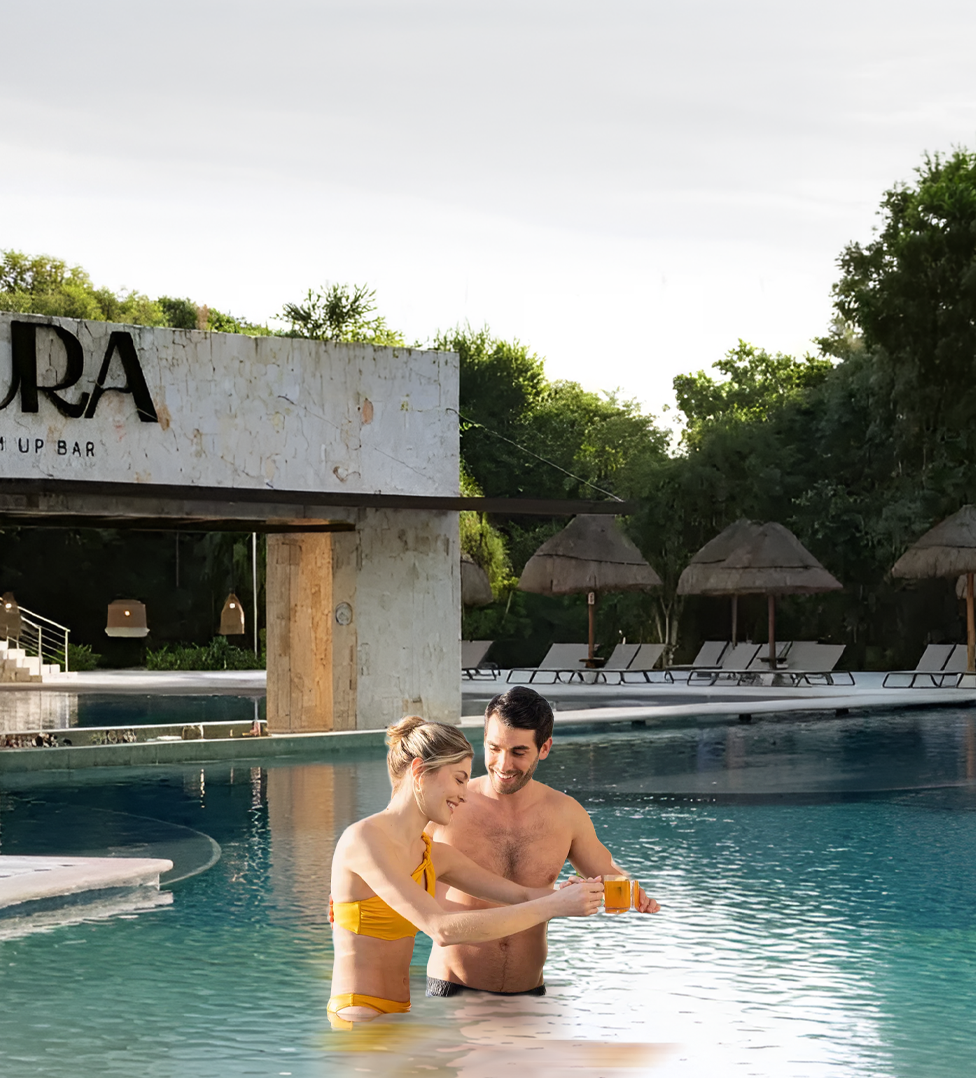
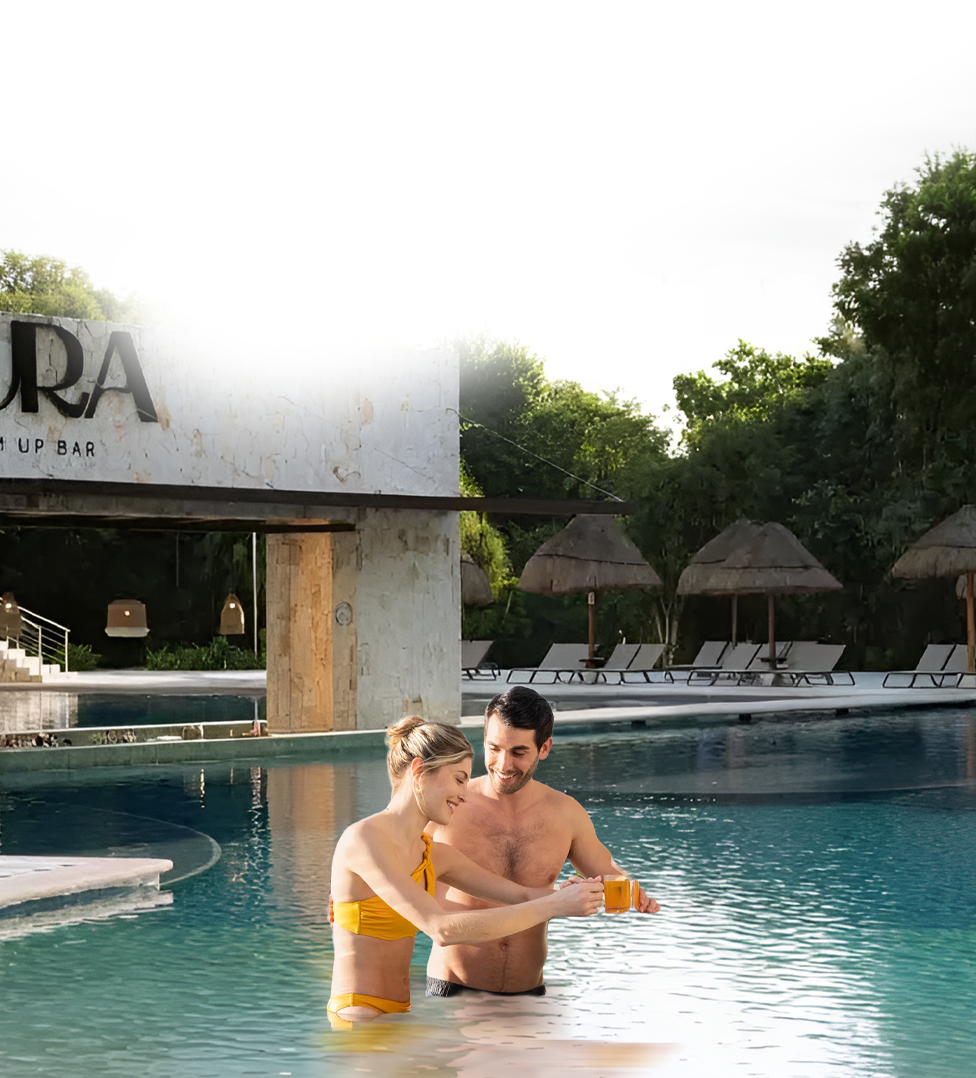
Mobile hello bar polish, hero spacing, lightbox swipe
- HelloBar: tighter mobile type/spacing, text-wrap balance, Per+Couple nbsp
- Hero: extend mobile/tablet bg under header via negative margin (keep column bg-cover)
- Lightbox: pointer swipe/drag on gallery images; draggable=false on imgs
- Testimonials: ReviewsLightbox uses pointer events for desktop drag
- Hero assets: updated HERO-BCK-MOBILE and HERO-BCK-TAB images

Made-with: Cursor

diff --git a/src/components/Lightbox.tsx b/src/components/Lightbox.tsx
@@ -1,6 +1,8 @@
-import { useEffect, useCallback, type ReactNode } from 'react';
+import { useEffect, useCallback, useRef, type ReactNode } from 'react';
 import { createPortal } from 'react-dom';
 import { X, ChevronLeft, ChevronRight } from 'lucide-react';
+
+const SWIPE_THRESHOLD_PX = 56;
 
 export type LightboxImageItem = {
   src: string;
@@ -48,6 +50,44 @@ export function Lightbox({
       onNavigate(currentIndex - 1);
     }
   }, [canGoBack, onNavigate, currentIndex]);
+
+  /** Horizontal drag / swipe (pointer = mouse + touch + pen). */
+  const gallerySwipeStartX = useRef<number | null>(null);
+
+  const onGalleryPointerDown = useCallback((e: React.PointerEvent<HTMLDivElement>) => {
+    if (e.pointerType === 'mouse' && e.button !== 0) return;
+    const t = e.target as HTMLElement;
+    if (t.closest('button, a, [role="button"]')) return;
+    gallerySwipeStartX.current = e.clientX;
+    e.currentTarget.setPointerCapture(e.pointerId);
+  }, []);
+
+  const onGalleryPointerUp = useCallback(
+    (e: React.PointerEvent<HTMLDivElement>) => {
+      if (gallerySwipeStartX.current === null) return;
+      const startX = gallerySwipeStartX.current;
+      gallerySwipeStartX.current = null;
+      try {
+        e.currentTarget.releasePointerCapture(e.pointerId);
+      } catch {
+        /* not captured */
+      }
+      const dx = e.clientX - startX;
+      if (Math.abs(dx) < SWIPE_THRESHOLD_PX) return;
+      if (dx < 0 && canGoForward) goToNext();
+      else if (dx > 0 && canGoBack) goToPrev();
+    },
+    [canGoBack, canGoForward, goToNext, goToPrev]
+  );
+
+  const onGalleryPointerCancel = useCallback((e: React.PointerEvent<HTMLDivElement>) => {
+    gallerySwipeStartX.current = null;
+    try {
+      e.currentTarget.releasePointerCapture(e.pointerId);
+    } catch {
+      /* */
+    }
+  }, []);
 
   const handleKeyDown = useCallback(
     (e: KeyboardEvent) => {
@@ -166,11 +206,17 @@ export function Lightbox({
           >
             {detailLayout ? (
               <>
-                <div className="flex min-h-0 shrink-0 justify-center md:w-[52%] md:max-w-none">
+                <div
+                  className="flex min-h-0 shrink-0 cursor-grab touch-pan-y justify-center active:cursor-grabbing md:w-[52%] md:max-w-none"
+                  onPointerDown={onGalleryPointerDown}
+                  onPointerUp={onGalleryPointerUp}
+                  onPointerCancel={onGalleryPointerCancel}
+                >
                   <img
                     src={currentImage?.src}
                     alt={currentImage?.label || `Image ${currentIndex + 1}`}
-                    className="max-h-[42vh] w-full max-w-full rounded-lg object-contain shadow-2xl md:max-h-[min(78vh,720px)]"
+                    draggable={false}
+                    className="max-h-[42vh] w-full max-w-full select-none rounded-lg object-contain shadow-2xl md:max-h-[min(78vh,720px)]"
                   />
                 </div>
                 <div className="flex min-h-0 max-h-[38vh] flex-col overflow-y-auto scroll-touch-y rounded-xl bg-black/40 px-4 py-4 text-left backdrop-blur-md md:max-h-none md:w-[48%] md:px-6 md:py-6">
@@ -185,12 +231,18 @@ export function Lightbox({
                 </div>
               </>
             ) : (
-              <div className="relative">
+              <div
+                className="relative cursor-grab touch-pan-y active:cursor-grabbing"
+                onPointerDown={onGalleryPointerDown}
+                onPointerUp={onGalleryPointerUp}
+                onPointerCancel={onGalleryPointerCancel}
+              >
                 <div className="relative flex items-center justify-center">
                   <img
                     src={currentImage?.src}
                     alt={currentImage?.label || `Image ${currentIndex + 1}`}
-                    className="max-h-[80vh] max-w-full rounded-lg object-contain shadow-2xl"
+                    draggable={false}
+                    className="max-h-[80vh] max-w-full select-none rounded-lg object-contain shadow-2xl"
                   />
                 </div>
 

diff --git a/src/components/Testimonials.tsx b/src/components/Testimonials.tsx
@@ -42,6 +42,8 @@ const reviews: Review[] = [
 
 const galleryImages = [...GUEST_REVIEW_GALLERY_IMAGES];
 
+const REVIEW_SWIPE_THRESHOLD_PX = 56;
+
 function ReviewsLightbox({
   reviews: reviewList,
   isOpen,
@@ -54,7 +56,7 @@ function ReviewsLightbox({
   onClose: () => void;
 }) {
   const [index, setIndex] = useState(initialIndex);
-  const touchStartX = useRef<number | null>(null);
+  const swipeStartX = useRef<number | null>(null);
 
   useEffect(() => {
     if (isOpen) setIndex(initialIndex);
@@ -67,6 +69,43 @@ function ReviewsLightbox({
   const goNext = useCallback(() => {
     setIndex((i) => Math.min(reviewList.length - 1, i + 1));
   }, [reviewList.length]);
+
+  const canBack = index > 0;
+  const canForward = index < reviewList.length - 1;
+
+  const onReviewPointerDown = useCallback((e: React.PointerEvent<HTMLDivElement>) => {
+    if (e.pointerType === 'mouse' && e.button !== 0) return;
+    if ((e.target as HTMLElement).closest('button, a, [role="button"]')) return;
+    swipeStartX.current = e.clientX;
+    e.currentTarget.setPointerCapture(e.pointerId);
+  }, []);
+
+  const onReviewPointerUp = useCallback(
+    (e: React.PointerEvent<HTMLDivElement>) => {
+      if (swipeStartX.current === null) return;
+      const startX = swipeStartX.current;
+      swipeStartX.current = null;
+      try {
+        e.currentTarget.releasePointerCapture(e.pointerId);
+      } catch {
+        /* */
+      }
+      const dx = e.clientX - startX;
+      if (Math.abs(dx) < REVIEW_SWIPE_THRESHOLD_PX) return;
+      if (dx < 0 && canForward) goNext();
+      else if (dx > 0 && canBack) goPrev();
+    },
+    [canBack, canForward, goNext, goPrev]
+  );
+
+  const onReviewPointerCancel = useCallback((e: React.PointerEvent<HTMLDivElement>) => {
+    swipeStartX.current = null;
+    try {
+      e.currentTarget.releasePointerCapture(e.pointerId);
+    } catch {
+      /* */
+    }
+  }, []);
 
   useEffect(() => {
     if (!isOpen) return;
@@ -91,22 +130,8 @@ function ReviewsLightbox({
   if (!isOpen) return null;
 
   const review = reviewList[index];
-  const canBack = index > 0;
-  const canForward = index < reviewList.length - 1;
 
   const detailTopPad = 'max(7rem, calc(env(safe-area-inset-top, 0px) + 6rem))';
-
-  const onTouchStart = (e: React.TouchEvent) => {
-    touchStartX.current = e.touches[0].clientX;
-  };
-
-  const onTouchEnd = (e: React.TouchEvent) => {
-    if (touchStartX.current === null) return;
-    const dx = e.changedTouches[0].clientX - touchStartX.current;
-    touchStartX.current = null;
-    if (dx < -56 && canForward) goNext();
-    else if (dx > 56 && canBack) goPrev();
-  };
 
   return createPortal(
     <div
@@ -154,10 +179,11 @@ function ReviewsLightbox({
       ) : null}
 
       <div
-        className="relative z-10 mx-auto flex w-full max-w-lg flex-col justify-center px-2 animate-scale-in sm:max-w-2xl"
+        className="relative z-10 mx-auto flex w-full max-w-lg cursor-grab touch-pan-y flex-col justify-center px-2 animate-scale-in active:cursor-grabbing sm:max-w-2xl"
         onClick={(e) => e.stopPropagation()}
-        onTouchStart={onTouchStart}
-        onTouchEnd={onTouchEnd}
+        onPointerDown={onReviewPointerDown}
+        onPointerUp={onReviewPointerUp}
+        onPointerCancel={onReviewPointerCancel}
       >
         <div className="overflow-hidden rounded-2xl border-2 border-purple/30 bg-white shadow-2xl">
           <div className="border-b border-gray-100 px-5 pb-4 pt-5 sm:px-8 sm:pb-5 sm:pt-6">
@@ -215,7 +241,7 @@ function ReviewsLightbox({
         </div>
 
         <p className="mt-2 text-center text-fluid-xs text-white/80">
-          {index + 1} / {reviewList.length} · swipe or use arrows
+          {index + 1} / {reviewList.length} · swipe or drag on the card · arrows
         </p>
       </div>
     </div>,

diff --git a/src/components/Hero.tsx b/src/components/Hero.tsx
@@ -10,7 +10,7 @@ export function Hero() {
   return (
     <>
       <section className="relative flex min-h-[500px] flex-col overflow-hidden bg-plum md:min-h-[600px] lg:min-h-[800px] lg:overflow-visible">
-        {/* Desktop: full-bleed hero (unchanged) */}
+        {/* Desktop: full-bleed hero */}
         <div
           className="pointer-events-none absolute inset-0 z-0 hidden bg-cover bg-center lg:block"
           style={{ backgroundImage: 'url(home/HERO-BCK-Desktop.png)' }}
@@ -20,8 +20,8 @@ export function Hero() {
         <div className="relative z-10 flex min-h-0 flex-1 flex-col">
           <div className="mx-auto flex w-full max-w-content flex-1 flex-col pt-8 md:pt-12 lg:px-8 lg:pt-fluid-3">
             <div className="flex flex-1 flex-col gap-0 lg:flex-row lg:items-start lg:justify-between lg:gap-fluid-4">
-              {/* Mobile / tablet: background in this column only, above booking; full-bleed under lg (parent has lg:px-8 only). */}
-              <div className="relative order-1 flex min-h-[500px] flex-col items-center overflow-hidden md:min-h-[600px] lg:min-h-0 lg:overflow-visible">
+              {/* Mobile/tablet bg stays in this column so `bg-cover` uses the same box as before. Pull up by the parent’s top padding so the photo fills the strip under the header without changing scale/crop. */}
+              <div className="relative order-1 -mt-8 flex min-h-[500px] flex-col items-center overflow-hidden md:-mt-12 md:min-h-[600px] lg:mt-0 lg:min-h-0 lg:overflow-visible">
                 <div
                   className="pointer-events-none absolute inset-0 z-0 bg-cover bg-center md:hidden"
                   style={{ backgroundImage: 'url(home/HERO-BCK-MOBILE.png)' }}
@@ -32,7 +32,7 @@ export function Hero() {
                   style={{ backgroundImage: 'url(home/HERO-BCK-TAB.png)' }}
                   aria-hidden
                 />
-                <div className="relative z-10 flex w-full flex-col items-center px-4 md:px-6 lg:px-0">
+                <div className="relative z-10 flex w-full flex-col items-center px-4 pt-8 md:px-6 md:pt-12 lg:px-0 lg:pt-0">
                   <img
                     className="hero-sticker-element"
                     src="home/mexico-10.png"

diff --git a/src/components/HelloBar.tsx b/src/components/HelloBar.tsx
@@ -9,12 +9,12 @@ import { PriceFootnoteMark } from './PriceFootnoteMark';
 export function HelloBar() {
   return (
     <div
-      className="bg-plum px-4 py-2.5 text-center text-fluid-sm font-semibold uppercase tracking-wide text-white sm:text-fluid-base"
+      className="bg-plum px-3 py-2 text-center text-fluid-xs font-semibold uppercase leading-snug tracking-normal text-white sm:px-4 sm:py-2.5 sm:text-fluid-sm sm:leading-normal sm:tracking-wide md:text-fluid-base"
+      style={{ textWrap: 'balance' }}
       role="status"
     >
-      {OFFER_STAY_LABEL} · {OFFER_HEADLINE_DESTINATION} · just{' '}
-      {OFFER_TOTAL_AMOUNT}
-      <PriceFootnoteMark /> Per Couple!
+      {OFFER_STAY_LABEL} · {OFFER_HEADLINE_DESTINATION} · just {OFFER_TOTAL_AMOUNT}
+      <PriceFootnoteMark /> Per{'\u00A0'}Couple!
     </div>
   );
 }
